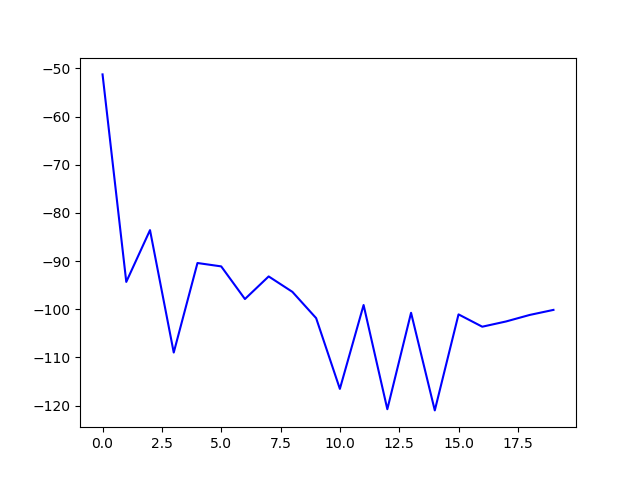
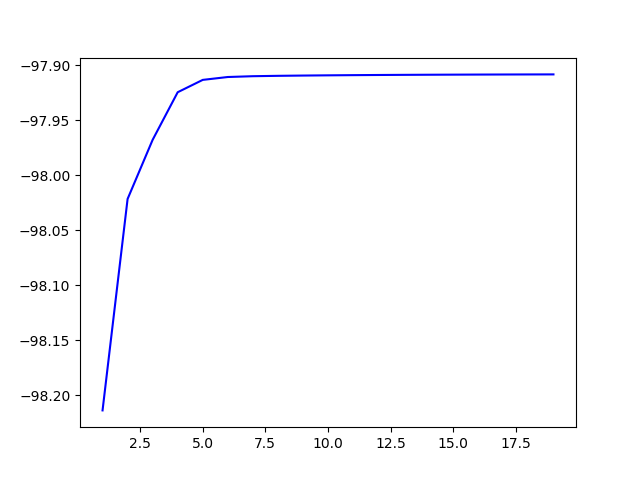
for a second you look too good to be true !

diff --git a/Baumwelchcont.py b/Baumwelchcont.py
@@ -49,8 +49,6 @@ def clipvalues_prevunderflowfw(vector):
     for i in range(np.shape(vector)[0]):
         if vector[i] < eps:
             vector[i] = eps +( vector[i] - minpie)
-        if vector[i] > 1:
-            vector[i] = 1.0
         if vector[i] == 0:
             vector[i] =eps    
     return vector
@@ -184,10 +182,10 @@ def computelikelihoodbasedonseq(seq,obsmtrx,observations):
     prob = 0
     eps = 2.22044604925e-16
     for t in range(len(seq)):
-        probeps = abs((0.1  * obsmtrx[int(seq[t]),1]))
+        probeps = abs((0.01  * obsmtrx[int(seq[t]),1]))
         distr = stats.norm(obsmtrx[int(seq[t]),0], obsmtrx[int(seq[t]),1])
-        obsprob = distr.cdf(observations[t] + probeps) - distr.cdf(observations[t]- probeps) + eps
-        prob += np.log(obsprob) + eps
+        obsprob = distr.cdf(observations[t] + probeps) - distr.cdf(observations[t]- probeps) 
+        prob += np.log(obsprob) 
     return prob 
 def clipvalues_prevoverflowfw(vector):
     eps = 2.22044604925e-16
@@ -303,10 +301,10 @@ def E_step(pie,transmtrx,obsmtrx,observations):
             for t in range(timelength-1):
                 for q in range(numstate):
                     for s in range(numstate):
-                        probeps = abs(0.1 *  obsmtrx[s,1])
+                        probeps = abs(0.01 *  obsmtrx[s,1])
                         distr = stats.norm(obsmtrx[s,0], obsmtrx[s,1])
-                        obsprob = distr.cdf(observations[sample,t+1] + probeps) - distr.cdf(observations[sample,t+1] - probeps) + eps
-                        kissies[sample,t,q,s] = (float(alphas[sample,t,q]) * float(transmtrx[q,s]) * float(obsprob * betas[sample,t+1,s])) + eps
+                        obsprob = distr.cdf(observations[sample,t+1] + probeps) - distr.cdf(observations[sample,t+1] - probeps)
+                        kissies[sample,t,q,s] = (float(alphas[sample,t,q]) * float(transmtrx[q,s]) * float(obsprob * betas[sample,t+1,s]))
                 wholesum = (np.sum(kissies[sample,t,:,:]))
                 kissies[sample,t,:,:] /= wholesum
         for sample in range(numsamples):
@@ -325,11 +323,11 @@ def E_step(pie,transmtrx,obsmtrx,observations):
         for t in range(timelength-1):
             for q in range(numstate):
                 for s in range(numstate):
-                    probeps = abs(0.1 *  obsmtrx[s,1])
+                    probeps = abs(0.01 *  obsmtrx[s,1])
                     distr = stats.norm(obsmtrx[s,0], obsmtrx[s,1])
-                    obsprob = distr.cdf(observations[t+1]+ probeps) - distr.cdf(observations[t+1]- probeps) + eps
+                    obsprob = distr.cdf(observations[t+1]+ probeps) - distr.cdf(observations[t+1]- probeps) 
                     # print obsprob
-                    kissies[t,q,s] = (float(alphas[t,q]) * float(transmtrx[q,s]) * float(obsprob * betas[t+1,s])) + eps
+                    kissies[t,q,s] = (float(alphas[t,q]) * float(transmtrx[q,s]) * float(obsprob * betas[t+1,s])) 
             wholesum = np.sum(kissies[t,:,:])
             kissies[t,:,:] /= wholesum
         kissies[timelength-1,:,:] /= np.sum(kissies[timelength-1,:,:])
@@ -354,7 +352,7 @@ def M_step(gammas,kissies,observations,hard = False):
         for q in range(numstate):
             denominator = np.sum(gammas[:,:timelength-1,q]) 
             for s in range(numstate):
-                newtransmtrx[q,s] = (float(np.sum(kissies[:,:timelength-1,q,s]) )/ float(denominator)) + eps
+                newtransmtrx[q,s] = (float(np.sum(kissies[:,:timelength-1,q,s]) )/ float(denominator)) 
         if hard == False:
             for state in range(numstate):
                 numerator = []
@@ -362,8 +360,8 @@ def M_step(gammas,kissies,observations,hard = False):
                     for sample in range(numsamples):
                         numerator.append(gammas[sample,time,state] * observations[sample,time])
                         #mean ?? variance ??? 
-                newobsmtrx[state,0] = np.mean(numerator) + eps
-                newobsmtrx[state,1] = np.var(numerator) + eps
+                newobsmtrx[state,0] = np.mean(numerator)
+                newobsmtrx[state,1] = np.var(numerator) 
         else:
             assignments = []
             for i in range(numstate):
@@ -374,8 +372,8 @@ def M_step(gammas,kissies,observations,hard = False):
                     assignments[most_likely_state].append(observations[sample,time])
             for state in range(numstate):
                 if len(assignments[state]) >= 1:
-                    newobsmtrx[state,0] = np.mean(assignments[state])+ eps
-                    newobsmtrx[state,1] = np.var(assignments[state])+ eps
+                    newobsmtrx[state,0] = np.mean(assignments[state])
+                    newobsmtrx[state,1] = np.var(assignments[state])
 
     else:
         # single observation
@@ -389,15 +387,15 @@ def M_step(gammas,kissies,observations,hard = False):
         for q in range(numstate):
             denominator = np.sum(gammas[:timelength-1,q]) 
             for s in range(numstate):
-                newtransmtrx[q,s] = (float(np.sum(kissies[:timelength-1,q,s]) )/ float(denominator)) + eps
+                newtransmtrx[q,s] = (float(np.sum(kissies[:timelength-1,q,s]) )/ float(denominator)) 
         print newtransmtrx
         if hard == False:
             for state in range(numstate):
                 numerator = []
                 for time in range(timelength):
                     numerator.append(gammas[time,state] * observations[time])
-                newobsmtrx[state,0] = np.mean(numerator)+ eps
-                newobsmtrx[state,1] = np.var(numerator)+ eps
+                newobsmtrx[state,0] = np.mean(numerator)
+                newobsmtrx[state,1] = np.var(numerator)
             # print newobsmtrx
         else:
             assignments = []
@@ -408,8 +406,8 @@ def M_step(gammas,kissies,observations,hard = False):
                 assignments[most_likely_state].append(observations[time])
             for state in range(numstate):
                 if len(assignments[state]) >= 1:
-                    newobsmtrx[state,0] = np.mean(assignments[state])+ eps
-                    newobsmtrx[state,1] = np.var(assignments[state])+ eps
+                    newobsmtrx[state,0] = np.mean(assignments[state])
+                    newobsmtrx[state,1] = np.var(assignments[state])
 
     # (newpie,newtransmtrx,newobsmtrx,gammas,kissies) = clipvalues_prevunderflow(newpie,newtransmtrx,newobsmtrx,gammas,kissies)
     return (newpie,newtransmtrx,newobsmtrx)
@@ -434,8 +432,8 @@ def Baumwelchcont(observations,numstates,exmodel,hard = False):
         numsamples = 1
 
     # initialization
-    (pie,transmtrx,obsmtrx )= initializeparameters(observations,numstates,numsamples)
-    # (pie,transmtrx,obsmtrx )= initializeparameters_closetoreality(observations,numstates,numsamples,exmodel)
+    # (pie,transmtrx,obsmtrx )= initializeparameters(observations,numstates,numsamples)
+    (pie,transmtrx,obsmtrx )= initializeparameters_closetoreality(observations,numstates,numsamples,exmodel)
     # (pie,transmtrx,obsmtrx ) = clipvalues_prevunderflow_small(pie,transmtrx,obsmtrx)
     noiterations = 100
     conv_threshold = 0.001

diff --git a/forwardcont.py b/forwardcont.py
@@ -9,26 +9,24 @@ def clipvalues_prevunderflowfw(vector):
     for i in range(np.shape(vector)[0]):
         if vector[i] < eps:
             vector[i] = eps +( vector[i] - minpie)
-        if vector[i] > 1:
-            vector[i] = 1.0
         if vector[i] == 0:
             vector[i] =eps    
     return vector
-def clipvalues_prevoverflowfw(vector):
-    eps = 2.22044604925e-16
-    minpie = np.min(vector)
-    maxpie = np.max(vector)
-    vector[np.argmin(vector)] = eps
-    vector[np.argmax(vector)] = 1.0
-    for i in range(np.shape(vector)[0]):
-        if vector[i] < eps:
-            vector[i] = eps +( vector[i] - minpie)
-        if vector[i] > 1:
-            vector[i] = 1.0 - (maxpie - vector[i])
-        if vector[i] == 0:
-            vector[i] =eps 
+# def clipvalues_prevoverflowfw(vector):
+#     eps = 2.22044604925e-16
+#     minpie = np.min(vector)
+#     maxpie = np.max(vector)
+#     vector[np.argmin(vector)] = eps
+#     vector[np.argmax(vector)] = 1.0
+#     for i in range(np.shape(vector)[0]):
+#         if vector[i] < eps:
+#             vector[i] = eps +( vector[i] - minpie)
+#         if vector[i] > 1:
+#             vector[i] = 1.0 - (maxpie - vector[i])
+#         if vector[i] == 0:
+#             vector[i] =eps 
        
-    return vector
+#     return vector
 
 
 def forwardcont(transmtrx,obsmtrx,pie,observations):
@@ -49,18 +47,18 @@ def forwardcont(transmtrx,obsmtrx,pie,observations):
         for state in range(numstates):
             probeps = abs((0.1 *  obsmtrx[state,1]))
             distr = stats.norm(obsmtrx[state,0], obsmtrx[state,1])
-            phi0[state] = distr.cdf(observations[0]+probeps) - distr.cdf(observations[0]- probeps)+ eps
+            phi0[state] = distr.cdf(observations[0]+probeps) - distr.cdf(observations[0]- probeps)
         (alphas[0,:]) = (np.multiply(phi0,pie)) 
+        alphas[0,:] = clipvalues_prevunderflowfw(alphas[0,:])
         most_likely_seq[0] = np.argmax(alphas[0,:])
         for t in range(1,timelength):
             phi_t = eps * np.ones(numstates)
             for state in range(numstates):
                 probeps = abs((0.1 *  obsmtrx[state,1]))
                 distr = stats.norm(obsmtrx[state,0], obsmtrx[state,1])
-                phi_t[state] = distr.cdf(observations[t]+ probeps) - distr.cdf(observations[t] - probeps)+ eps
+                phi_t[state] = distr.cdf(observations[t]+ probeps) - distr.cdf(observations[t] - probeps)
                 # print observations[t]
                 # print phi_t[state]
-            phi_t = clipvalues_prevunderflowfw(phi_t)
             # print 'trouble making probs'
             # print phi_t
             alphas[t,:] = np.multiply(phi_t,np.matmul(np.transpose(transmtrx) , np.transpose(alphas[t-1,:])))
@@ -90,17 +88,20 @@ def forwardcont(transmtrx,obsmtrx,pie,observations):
             for state in range(numstates):
                 probeps = abs((0.1 *  obsmtrx[state,1]))
                 distr = stats.norm(obsmtrx[state,0], obsmtrx[state,1])
-                phi0[state] = distr.cdf(observations[sample,0]+probeps) - distr.cdf(observations[sample,0]- probeps)+ eps
+                phi0[state] = distr.cdf(observations[sample,0]+probeps) - distr.cdf(observations[sample,0]- probeps)
             alphas[sample,0,:] = np.multiply(phi0,pie)
+            alphas[sample,0,:] = clipvalues_prevunderflowfw(alphas[sample,0,:])
+
             most_likely_seq[sample,0] = np.argmax(alphas[sample,0,:])
             for t in range(1,timelength):
                 phi_t = eps * np.ones(numstates)
                 for state in range(numstates):
                     probeps = abs((0.1 *  obsmtrx[state,1]))
                     distr = stats.norm(obsmtrx[state,0], obsmtrx[state,1])
-                    phi_t[state] = distr.cdf(observations[sample,t]+probeps) - distr.cdf(observations[sample,t]- probeps)+ eps
+                    phi_t[state] = distr.cdf(observations[sample,t]+probeps) - distr.cdf(observations[sample,t]- probeps)
                 alphas[sample,t,:] = np.multiply(phi_t,np.matmul(np.transpose(transmtrx) , np.transpose(alphas[sample,t-1,:])))
                 most_likely_seq[sample,t] = np.argmax(alphas[sample,t,:])
+                alphas[sample,t,:] = clipvalues_prevunderflowfw(alphas[sample,t,:])
             log_prob_most_likely_seq[sample] = np.sum(np.log(Zis[sample,:]) + 2.22044604925e-16 )
         for sample in range(numsamples):
             # print "likelihood at this stage for sample " + str(sample) + "is"

diff --git a/viterbicont.py b/viterbicont.py
@@ -23,7 +23,7 @@ def viterbicont(transmtrx,obsmtrx,pie,observations):
         # .reshape(-1,1)
         probs = eps * np.ones(numstates)
         for state in range(numstates):
-            probeps = abs((0.1 *  obsmtrx[state,1]))
+            probeps = abs((0.01 *  obsmtrx[state,1]))
             distr = stats.norm(obsmtrx[state,0], obsmtrx[state,1])
             probs[state] = distr.cdf(observations[0]+probeps) - distr.cdf(observations[0]- probeps)+ eps
         deltas[0,:] = normalize((np.multiply(probs,pie)).reshape(1, -1),norm = 'l1')
@@ -31,7 +31,7 @@ def viterbicont(transmtrx,obsmtrx,pie,observations):
             # set A here
             for j in range(numstates):
                 # print deltas[t-1,:] * transmtrx[:,j] * obsmtrx[j,int(observations[t])]
-                probeps = abs((0.1 *  obsmtrx[j,1]))
+                probeps = abs((0.01 *  obsmtrx[j,1]))
                 distr = stats.norm(obsmtrx[j,0], obsmtrx[j,1])
                 prob = distr.cdf(observations[t]+probeps) - distr.cdf(observations[t]- probeps)+ eps
                 normed = normalize((deltas[t-1,:] * transmtrx[:,j] * prob).reshape(1, -1),norm = 'l1')
@@ -55,7 +55,7 @@ def viterbicont(transmtrx,obsmtrx,pie,observations):
         for sample in range(numsamples):
             probs = eps * np.ones(numstates)
             for state in range(numstates):
-                probeps = abs((0.1 *  obsmtrx[state,1]))
+                probeps = abs((0.01 *  obsmtrx[state,1]))
                 distr = stats.norm(obsmtrx[state,0], obsmtrx[state,1])
                 probs[state] = distr.cdf(observations[sample,0]+probeps) - distr.cdf(observations[sample,0]- probeps)+ eps
             deltas[sample,0,:]  = normalize((np.multiply(probs,pie)).reshape(1, -1),norm = 'l1')
@@ -64,7 +64,7 @@ def viterbicont(transmtrx,obsmtrx,pie,observations):
                 # set A here
                 for j in range(numstates):
                     # print deltas[t-1,:] * transmtrx[:,j] * obsmtrx[j,int(observations[t])]
-                    probeps = abs((0.1 *  obsmtrx[j,1]))
+                    probeps = abs((0.01 *  obsmtrx[j,1]))
                     distr = stats.norm(obsmtrx[j,0], obsmtrx[j,1])
                     prob = distr.cdf(observations[sample,t]+probeps) - distr.cdf(observations[sample,t]- probeps)+ eps
                     normed = normalize((deltas[sample,t-1,:] * transmtrx[:,j] * prob).reshape(1, -1),norm = 'l1')

diff --git a/backwardcont.py b/backwardcont.py
@@ -20,8 +20,6 @@ def clipvalues_prevoverflowfw(vector):
     for i in range(np.shape(vector)[0]):
         if vector[i] < eps:
             vector[i] = eps +( vector[i] - minpie)
-        if vector[i] > 1:
-            vector[i] = 1.0 - (maxpie - vector[i])
         if vector[i] == 0:
             vector[i] =eps 
        
@@ -41,11 +39,13 @@ def backwardcont(transmtrx,obsmtrx,pie,observations):
         for t in range(timelength-1,0,-1):
             phi_t = eps * np.ones(numstates)
             for state in range(numstates):
-                probeps = abs((0.1 *  obsmtrx[state,1]))
+                probeps = abs((0.01 *  obsmtrx[state,1]))
                 distr = stats.norm(obsmtrx[state,0], obsmtrx[state,1])
-                phi_t[state] = distr.cdf(observations[t]+probeps) - distr.cdf(observations[t]- probeps)+ eps
+                phi_t[state] = distr.cdf(observations[t]+probeps) - distr.cdf(observations[t]- probeps)
             interm_result = np.multiply(phi_t , (betas[t,:]))
             betas[t-1,:] = np.matmul(transmtrx,interm_result)
+            # betas[t-1,:] = clipvalues_prevoverflowfw(betas[t-1,:])
+
             
     else:
         # multiple samples
@@ -59,10 +59,12 @@ def backwardcont(transmtrx,obsmtrx,pie,observations):
             for t in range(timelength-1,0,-1):
                 phi_t = eps * np.ones(numstates)
                 for state in range(numstates):
-                    probeps = abs((0.1 *  obsmtrx[state,1]))
+                    probeps = abs((0.01 *  obsmtrx[state,1]))
                     distr = stats.norm(obsmtrx[state,0], obsmtrx[state,1])
                     phi_t[state] = distr.cdf(observations[sample,t]+probeps) - distr.cdf(observations[sample,t]- probeps)+ eps
                 betas[sample,t-1,:]= np.matmul(transmtrx,np.multiply(phi_t , (betas[sample,t,:])))
+                # betas[sample,t-1,:] = clipvalues_prevoverflowfw(betas[sample,t-1,:])
+
 
     return betas
 

diff --git a/forward_backward_cont.py b/forward_backward_cont.py
@@ -65,8 +65,6 @@ def clipvalues_prevoverflowfw(vector):
     for i in range(np.shape(vector)[0]):
         if vector[i] < eps:
             vector[i] = eps +( vector[i] - minpie)
-        if vector[i] > 1:
-            vector[i] = 1.0 - (maxpie - vector[i])
         if vector[i] == 0:
             vector[i] =eps 
        
@@ -93,7 +91,7 @@ def forward_backwardcont(transmtrx,obsmtrx,pie,observations):
         for sample in range(numsamples):
             for i in range(timelength):
                 betas[sample,i,:] /= float(Ziis[sample,i])
-                betas[sample,i,:] = clipvalues_prevoverflowfw(betas[sample,i,:])
+                # betas[sample,i,:] = clipvalues_prevoverflowfw(betas[sample,i,:])
         for sample in range(numsamples):
             for t in range(timelength):
                 gammas[sample,t,:] = normalize(np.multiply(alphas[sample,t,:],betas[sample,t,:]).reshape(1, -1),norm = 'l1')
@@ -117,6 +115,7 @@ def forward_backwardcont(transmtrx,obsmtrx,pie,observations):
             # betas[i,:] = clipvalues_prevoverflowfw(betas[i,:])
         for t in range(timelength):
             gammas[t,:] = normalize(np.multiply(alphas[t,:],betas[t,:]).reshape(1, -1),norm = 'l1')
+            # gammas[t,:] = clipvalues_prevoverflowfw(gammas[t,:])
             # print gammas
             most_likely_seq[t] = np.argmax(gammas[t,:])
         # (alphas,betas,gammas,Ziis) = clipvalues_prevunderflowfw(alphas,betas,gammas,Ziis)
